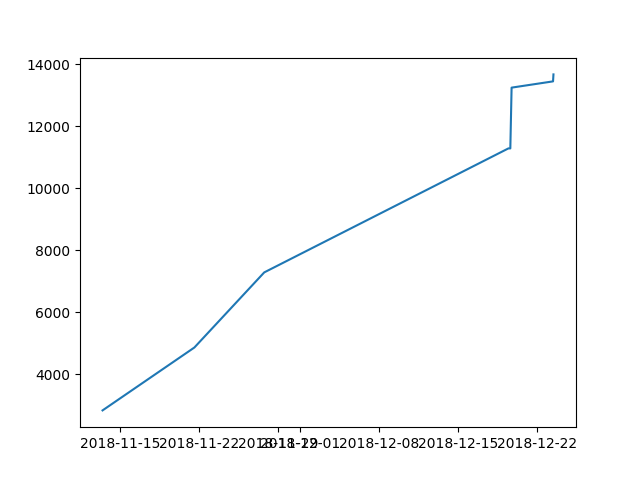
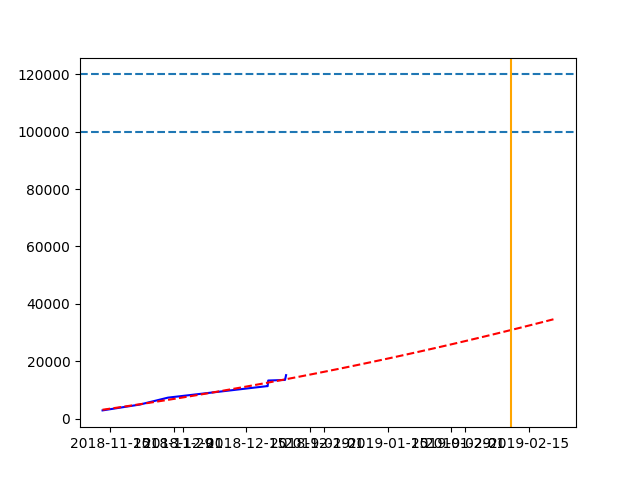
Add lines and regression

diff --git a/main.py b/main.py
@@ -4,6 +4,7 @@ import matplotlib
 matplotlib.use('TkAgg')
 import matplotlib.pyplot as plt
 import os
+import numpy as np
 import datetime
 
 def read_file(path):
@@ -13,6 +14,8 @@ def read_file(path):
 
 dir = './Rapport-TN09'
 file = 'main.tex'
+due_date = datetime.datetime.strptime('2019-02-11 00:00:00+01:00', '%Y-%m-%d %H:%M:%S%z')
+
 
 if __name__ == '__main__':
     repo = Repo('./Rapport-TN09')
@@ -31,6 +34,29 @@ if __name__ == '__main__':
         length = len(read_file(file_path))
         lengths.append(length)
 
+    def get_fit_fn(dates, lengths, dim):
+        min_date = min(dates)
+        deltas = [ (date - min_date).total_seconds() for date in dates]
+        fit = np.polyfit(deltas, lengths, dim)
+        print(fit)
+        def fit_fn(date):
+            x = (date - min_date).total_seconds()
+            return  sum([ n * np.power(x, p) for p, n in enumerate(reversed(fit))])
+        return fit_fn
     fig, ax = plt.subplots()
-    ax.plot(dates, lengths)
+
+    fit_fn = get_fit_fn(dates, lengths, 1)
+    base = min(dates)
+    date_list = [base + datetime.timedelta(days=x) for x in range(0, 100)]
+    prediction = [fit_fn(date) for date in date_list]
+
+    ax.plot(
+        dates, lengths, '-b',
+        date_list, prediction, '--r'
+    )
+
+    ax.axhline(y=100000, linestyle='--')
+    ax.axhline(y=120000, linestyle='--')
+    ax.axvline(x=due_date, color='orange')
+
     plt.savefig('plot.png')
